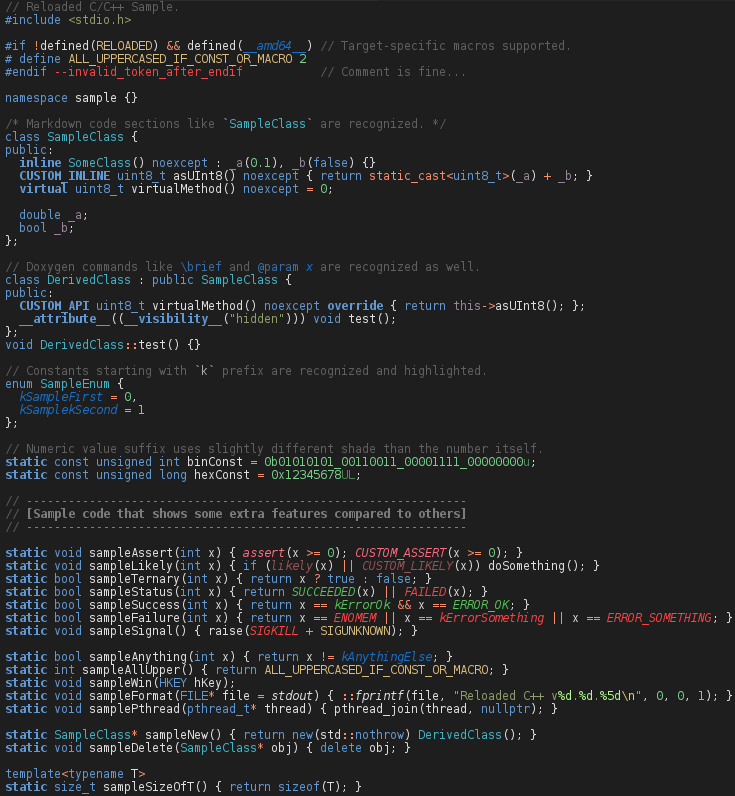
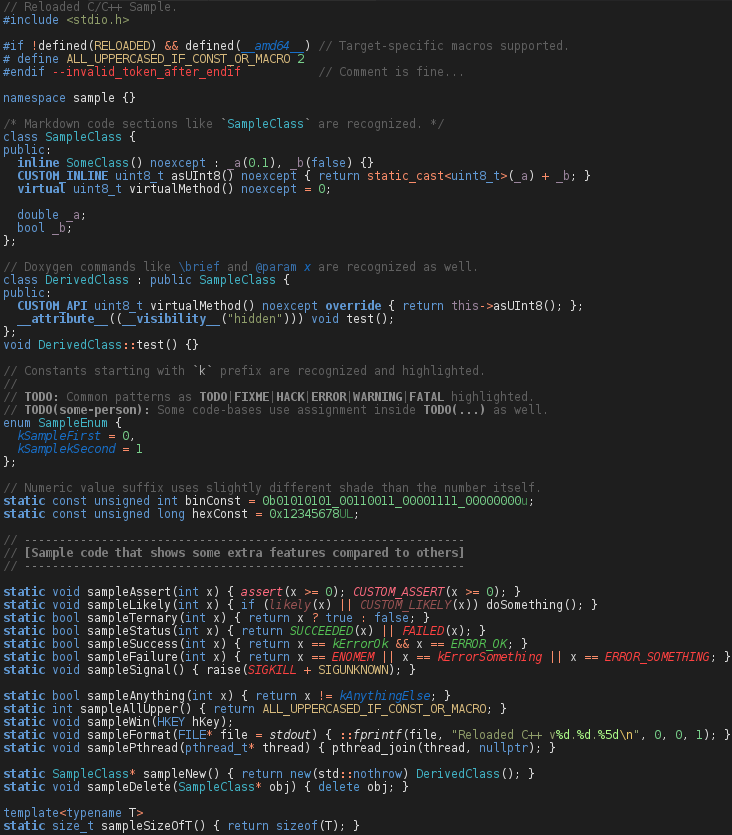
Added highlighting of TODO|FIXME|etc sections in comments

diff --git a/samples/sample.cpp b/samples/sample.cpp
@@ -27,6 +27,9 @@ public:
 void DerivedClass::test() {}
 
 // Constants starting with `k` prefix are recognized and highlighted.
+//
+// TODO: Common patterns as TODO|FIXME|HACK|ERROR|WARNING|FATAL highlighted.
+// TODO(some-person): Some code-bases use assignment inside TODO(...) as well.
 enum SampleEnum {
   kSampleFirst = 0,
   kSamplekSecond = 1
